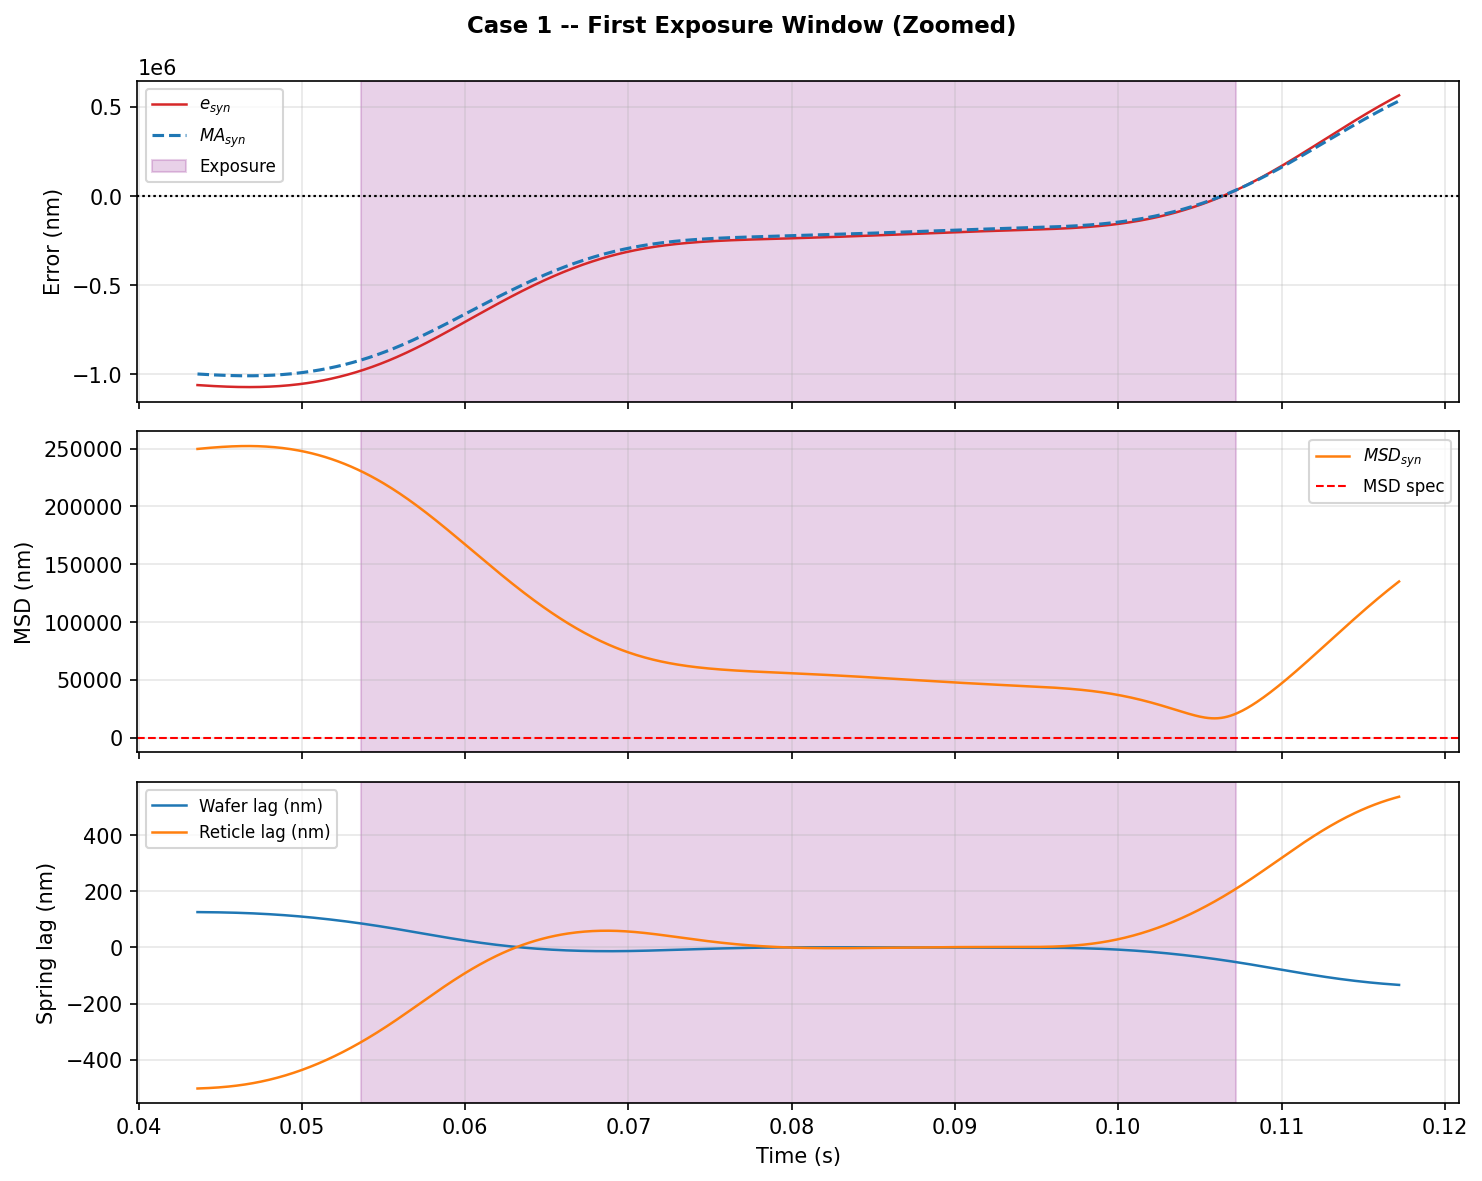
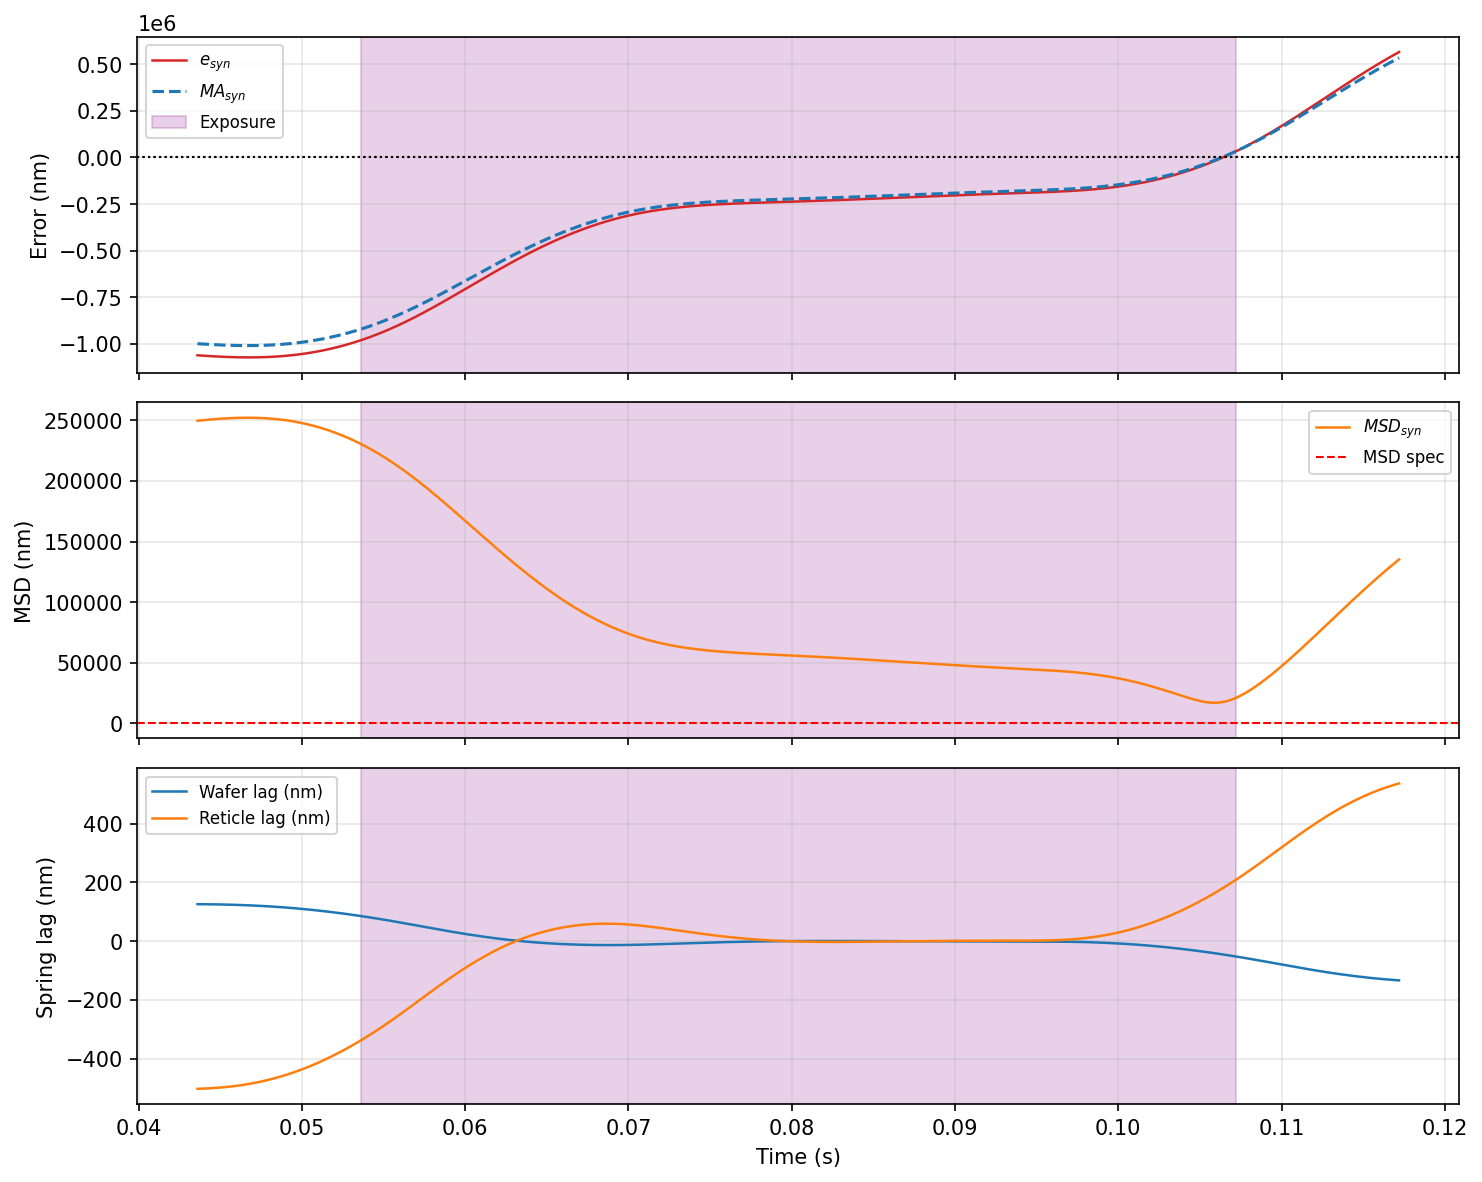
update

diff --git a/research/experiments/litho_control.py b/research/experiments/litho_control.py
@@ -228,6 +228,24 @@ def _run(dies, die_l, v, a, j, s, config, ff_w=(0.0, 0.0), ff_r=(0.0, 0.0),
         t = data.time - t_origin
         xw, yw, xr, yr, vw, aw, vr, ar, vxw = ref_kin(controller, t)
 
+        # ref_kin (via controller.get_ref) may have just advanced die_idx --
+        # close off the PREVIOUS die's segment now, before any sample for
+        # the new die is appended to `cur` below. Checking this after
+        # mj_step (the old placement) let the new die's first SCANNING
+        # sample -- taken right at the stepping-to-scanning handoff, where
+        # Case 1's uncontrolled short-stroke lag is largest -- leak into
+        # the tail of the PREVIOUS die's array as a spurious one-sample
+        # spike with nothing plotted after it.
+        if controller.die_idx != last_die_idx and last_die_idx != -1:
+            seg = np.array(cur)
+            if collect == "cruise" and len(seg) >= 3:
+                seg = seg[len(seg) // 3: 2 * len(seg) // 3]
+            per_die.append(seg)
+            cur = []
+            if len(per_die) >= len(dies):
+                break
+        last_die_idx = controller.die_idx
+
         yw_cmd, yr_cmd = yw, yr
         if config in ("case2", "case3a", "case3b"):
             yw_cmd = yw - (ff_w[0] * vw + ff_w[1] * aw)
@@ -265,15 +283,6 @@ def _run(dies, die_l, v, a, j, s, config, ff_w=(0.0, 0.0), ff_r=(0.0, 0.0),
         cancel_reactions(data)
 
         mujoco.mj_step(model, data)
-        if controller.die_idx != last_die_idx and last_die_idx != -1:
-            seg = np.array(cur)
-            if collect == "cruise" and len(seg) >= 3:
-                seg = seg[len(seg) // 3: 2 * len(seg) // 3]
-            per_die.append(seg)
-            cur = []
-            if len(per_die) >= len(dies):
-                break
-        last_die_idx = controller.die_idx
 
     extras = None
     if want_lag_samples:

diff --git a/research/experiments/exp_case1_full.py b/research/experiments/exp_case1_full.py
@@ -227,16 +227,16 @@ print("Saved case1_tracking_errors.png")
 
 # Fig 14 -- MA/MSD performance indices
 fig3, (axma, axmsd) = plt.subplots(2, 1, figsize=(10, 6), sharex=True)
-MA_LIM, MSD_LIM = 1e-6, 2.5e-8
-axma.plot(t_arr, np.clip(ma_syn, -MA_LIM, MA_LIM), color="#1f4e79", lw=0.7,
-          label="MA (Case 1, no fine stage)")
+MA_LIM = max(1e-6, float(np.max(np.abs(ma_syn))) * 1.1)
+MSD_LIM = max(2.5e-8, float(np.max(msd_syn)) * 1.1)
+axma.plot(t_arr, ma_syn, color="#1f4e79", lw=0.7, label="MA (Case 1, no fine stage)")
 axma.axhline(MA_UPPER, color="#c00000", ls="--", lw=1.0, label="MA upper spec")
 axma.axhline(MA_LOWER, color="#843c0c", ls="--", lw=1.0, label="MA lower spec")
 axma.set_ylabel("Moving average (m)", fontsize=11)
 axma.ticklabel_format(axis="y", style="sci", scilimits=(0, 0))
-axma.set_ylim(-1e-6, 1e-6); axma.legend(fontsize=9, loc="upper right")
+axma.set_ylim(-MA_LIM, MA_LIM); axma.legend(fontsize=9, loc="upper right")
 axma.grid(True, alpha=0.2)
-axmsd.plot(t_arr, np.clip(msd_syn, 0.0, MSD_LIM), color="#1f4e79", lw=0.7,
+axmsd.plot(t_arr, msd_syn, color="#1f4e79", lw=0.7,
            label="MSD (Case 1, no fine stage)")
 axmsd.axhline(MSD_UPPER, color="#c00000", ls="--", lw=1.0, label="MSD spec")
 axmsd.set_ylabel("Moving std. dev. (m)", fontsize=11); axmsd.set_xlabel("Time (s)")

diff --git a/CLAUDE.md b/CLAUDE.md
@@ -96,7 +96,7 @@ PlotNeuralNet/        third-party LaTeX library for NN architecture diagrams
   drivers; `run_headless.py` — glfw stub runner.
 - Archived `*.log` / `*.csv` files are the runs cited in the thesis. Old
   fine-stage runs are in `archive_finestage_20260810/`. Don't regenerate
-  without reason; if regenerated, update the chapter numbers.
+  without reason; if regenerated, update the chapter numbers. **All map and time-series experiment scripts natively export `.csv` files alongside their plots to permanently cache raw metrics (like MSD and MA shifts) without requiring MuJoCo reruns.**
 
 ## research/experiments_alrawashdeh/ (Parallel Al-Rawashdeh State-Space Suite)
 
@@ -139,10 +139,12 @@ If `latexmk` says "up-to-date" but you just edited, add `-g` to force.
 - **Citations**: keys follow `LastName + Year + Tag` (e.g.
   `Butler2011_PositionControl`). Add new entries to **both** bib files.
   Deck uses biblatex authoryear; fullThesis uses natbib/amsplain.
+- **Cross-references**: Spell out "Figure", "Table", "Section", "Chapter" completely in the text. Only use "Eq." for equations.
 - **Never invent numbers**: every figure/metric in the experiments chapter must
   trace to a script output archived in `research/experiments/`.
-- **Figure sizing (deck)**: TikZ uses `[scale=N]`, never `\resizebox` around
-  labeled TikZ. Slide body text floor: `\footnotesize`.
+- **Figure sizing & Formatting**: TikZ uses `[scale=N]`, never `\resizebox` around
+  labeled TikZ. Slide body text floor: `\footnotesize`. Avoid redundant `matplotlib` titles (`fig.suptitle` or `ax.set_title`) if the LaTeX caption already describes the plot. Keep `bbox_inches="tight"` to minimize whitespace, and rely on LaTeX for figure separation spacing (which has been tightened in `TesisPrincipal.tex`).
+- **Visuals**: Wafer fingerprints must use green (`#4caf50`) for passing and red (`#f44336`) for failing (supersedes old blue/yellow schema).
 - **No emojis** in any file.
 
 ## Methodological anchors & experiment status (as of 2026-08-11, stage-mass-fix rebuild)
@@ -310,7 +312,8 @@ used everywhere; old fine-stage runs archived in `archive_finestage_20260810/`.
 - **Disturbance campaign** (Exp 2/3 CNN validation): vibration→Center (94/241
   failing, 40.3% confidence — was 93/241 at 55.5% pre-stage-mass-fix, same
   class, weaker confidence), drift→Donut (99.9 %), scratch→Loc; clean→none.
-  Uses its own MA-shift + 2× criterion (not the 7 nm spec).
+  Uses its own **MA-shift + 2× median MSD criterion (not the 7 nm spec)**.
+  **CRITICAL**: The MA criterion here is the *relative MA shift* relative to the unperturbed baseline ($|\Delta \bar{e}_{\text{syn}}| > 100\text{ nm}$), NOT an absolute MA > 100 nm. Since Case 1's baseline absolute MA is 955 µm, an absolute 100 nm threshold would cause 100% of dies to fail instantly. The MA-shift metric is offset-immune.
 - **Gap framing**: inverse problem (fingerprint → cause) is established
   industry practice (Lam 2015); this thesis fills the **forward direction**.
 - **LSTM/GRU surrogate**: secondary; NOT re-run on the 2-stage plant — its
